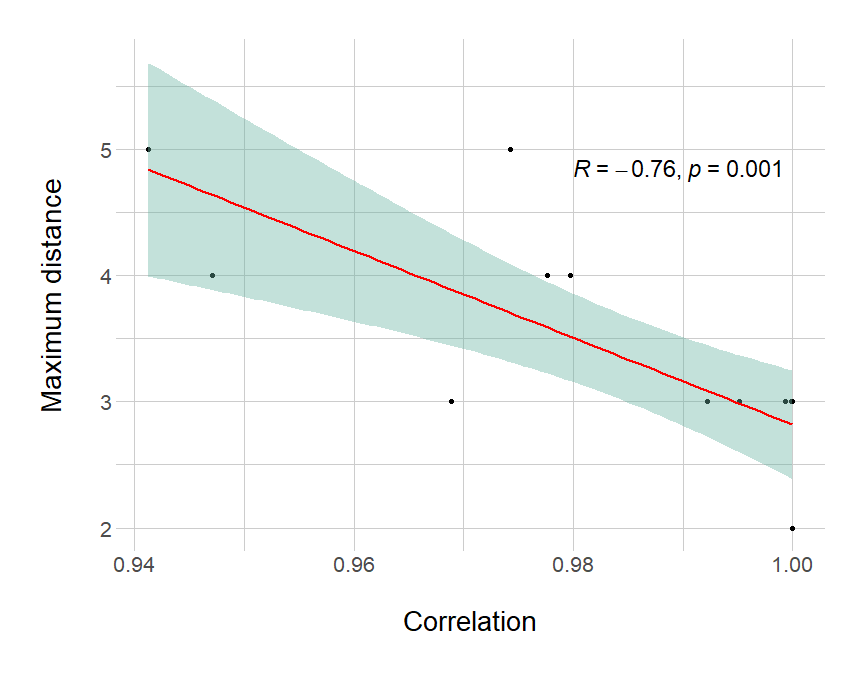
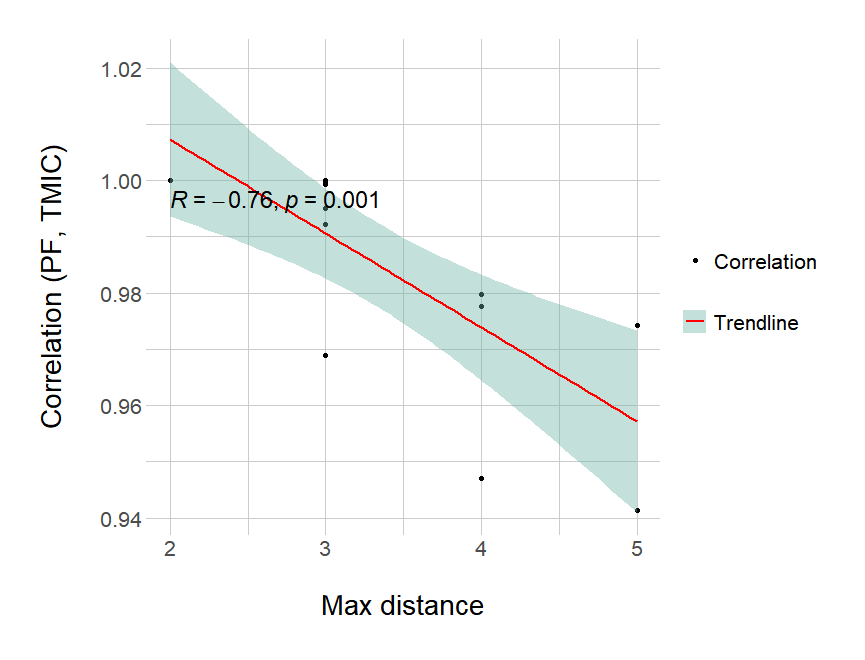
Add legend to figures in 5.3

diff --git a/Thesis/sections/5.Experiments.tex b/Thesis/sections/5.Experiments.tex
@@ -309,7 +309,7 @@ In addition, we also calculate the \textit{Pearson correlation coefficient}. The
 
 \begin{figure}[ht!]
 \begin{center}
-\includegraphics[width=0.7\textwidth]{figures/results/Rplot_spoon-core_eclipse-osgi_TMIC.png}
+\includegraphics[width=0.75\textwidth]{figures/results/Rplot_spoon-core_eclipse-osgi_TMIC.png}
 \caption{Correlation between \textit{propagation factor} and \texttt{TMIC}. \textit{R} is the Pearson correlation coefficient, and \textit{p} corresponds to the confidence interval}
 \label{fig:correlation-tmic}
 \end{center}
@@ -317,7 +317,7 @@ In addition, we also calculate the \textit{Pearson correlation coefficient}. The
 
 \begin{figure}[ht!]
 \begin{center}
-\includegraphics[width=0.7\textwidth]{figures/results/Rplot_spoon-core_eclipse-osgi_TAC.png}
+\includegraphics[width=0.75\textwidth]{figures/results/Rplot_spoon-core_eclipse-osgi_TAC.png}
 \caption{Correlation between \textit{propagation factor} and \texttt{TAC}. \textit{R} is the Pearson correlation coefficient, and \textit{p} corresponds to the confidence interval}
 \label{fig:correlation-tac}
 \end{center}
@@ -336,7 +336,7 @@ In Table \ref{table:covariance-sensitivity}, we can see that the values of the c
 \begin{figure}[ht!]
 \begin{center}
 \includegraphics[width=0.7\textwidth]{figures/results/covariance-values-tmic.png}
-\caption{Correlation between the covariance of \textit{propagation factor} and \texttt{TMIC} and the sumation of the coupling measured at each distance. \textit{R} is the Pearson correlation coefficient, and \textit{p} corresponds to the confidence interval}
+\caption{Correlation between the covariance of \textit{propagation factor} and \texttt{TMIC} and the sumation of the coupling measured at each distance (\texttt{DTMIC}). \textit{R} is the Pearson correlation coefficient, and \textit{p} corresponds to the confidence interval}
 \label{fig:cov-value-tmic}
 \end{center}
 \end{figure}
@@ -344,7 +344,7 @@ In Table \ref{table:covariance-sensitivity}, we can see that the values of the c
 \begin{figure}[ht!]
 \begin{center}
 \includegraphics[width=0.7\textwidth]{figures/results/covariance-values-tac.png}
-\caption{Correlation between the covariance of \textit{propagation factor} and \texttt{TAC} and the sumation of the coupling measured at each distance. \textit{R} is the Pearson correlation coefficient, and \textit{p} corresponds to the confidence interval}
+\caption{Correlation between the covariance of \textit{propagation factor} and \texttt{TAC} and the sumation of the coupling measured at each distance (\texttt{DTAC}). \textit{R} is the Pearson correlation coefficient, and \textit{p} corresponds to the confidence interval}
 \label{fig:cov-value-tac}
 \end{center}
 \end{figure}
@@ -353,7 +353,7 @@ Finally, in the results of the correlation coefficient between the propagation f
 
 \begin{figure}[ht!]
 \begin{center}
-\includegraphics[width=0.7\textwidth]{figures/results/covariance-values-tmic.png}
+\includegraphics[width=0.7\textwidth]{figures/results/correlation_max_distance_TMIC.png}
 \caption{Correlation between the correlation of \textit{propagation factor} and \texttt{TMIC} and the maximum distance at which coupling is measured. \textit{R} is the Pearson correlation coefficient, and \textit{p} corresponds to the confidence interval}
 \label{fig:cor-dist-tmic}
 \end{center}
@@ -361,7 +361,7 @@ Finally, in the results of the correlation coefficient between the propagation f
 
 \begin{figure}[ht!]
 \begin{center}
-\includegraphics[width=0.7\textwidth]{figures/results/covariance-values-tac.png}
+\includegraphics[width=0.7\textwidth]{figures/results/correlation_max_distance_TAC.png}
 \caption{Correlation between the correlation of \textit{propagation factor} and \texttt{TAC} and the maximum distance at which coupling is measured. \textit{R} is the Pearson correlation coefficient, and \textit{p} corresponds to the confidence interval}
 \label{fig:cor-dist-tac}
 \end{center}
@@ -816,6 +816,10 @@ Finally, we also generated 70th, 80th, and 90th percentiles of each of the metri
 \subsection{Discussion}
 
 In the results of all the metrics, one can see that the majority of the values are the lowest ones. In other words, many dependencies are loosely coupled, while there are a few which are highly coupled. Also, it is possible to observe a difference in the values of the metrics measuring method invocation coupling (\texttt{MIC} and \texttt{TMIC}), with those measuring aggregation coupling - namely \texttt{AC} and \texttt{TAC}. The method invocation metrics generally have higher values. This can also be intuitively perceived: for each field declared, multiple method calls can occur.
+
+When comparing the results of the metrics \texttt{TMIC} and \texttt{TAC} with different values of \textit{propagation factor}, the comparison is not exactly as it could be intuitively expected. In Figures \ref{fig:TMIC-benchmark-1} and \ref{fig:TMIC-benchmark-0.1} we can see the benchmark of \texttt{TMIC} with \textit{propagation factor} $1$ and $0.1$, respectively. Given that one \textit{propagation factor} is 10 times smaller than the first one, we would expect the results of the metrics to be 10 times smaller as well. However, we can see that on the right side of the plot; there is at least one dependency with \texttt{TMIC} around $5000$ for both \textit{propagation factors}. We looked at the values measured to understand why this happened. The dependency has two distances at which coupling is measured: 1 and 2. These distances have a coupling of 4958 and 11, respectively. Following the equation \ref{eqn:tmic}, since the \textit{propagation factor} is used to the power of $\verb|distance| - 1$, it is not applied when distance is 1. This is also consistent with the fact that distance 1 means that the server library is, in this case, a direct dependency, and therefore there is no mitigation of the coupling. Hence, that is why this value appears with both \textit{propagation factors} because it is only applied for distance 2, which has a small value, in comparison with distance 1. The same scenario can be seen in the case of \texttt{TAC} (Figures \ref{fig:TAC-benchmark-1} and \ref{fig:TAC-benchmark-0.1}).
+
+
 
 In Table \ref{table:percentiles}, there are the 70th, 80th, and 90th percentiles of each of the metrics. These percentiles have been previously used for software metrics for risk assessment \cite{alves2010deriving}. Considering the values in Table \ref{table:percentiles}, the risk assessment for each of the metrics can be found in Table \ref{table:risk-profile}, with four risk profiles: low risk, medium risk, high risk, and very high risk. It is worth saying that for this risk profile to be completely useful, the percentiles should be calculated with other datasets, with different types of client library. Therefore, this risk profile is only valid for the current dataset.
 
